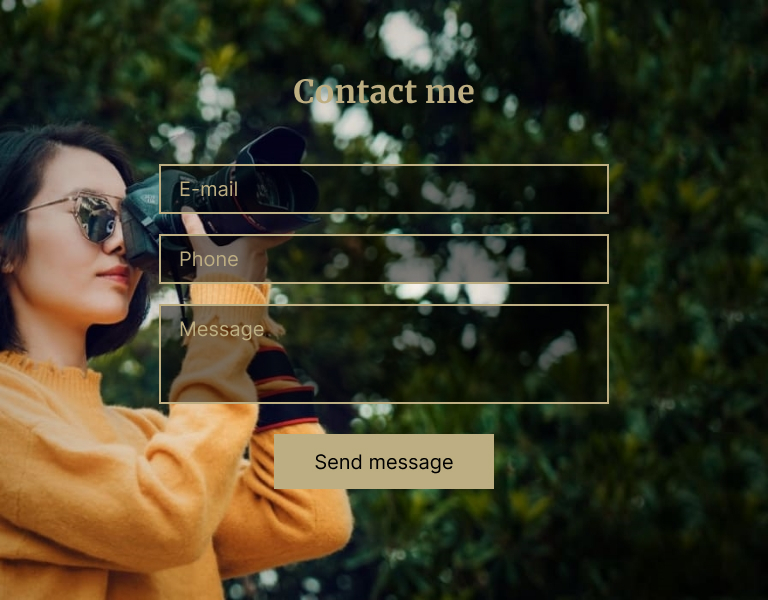
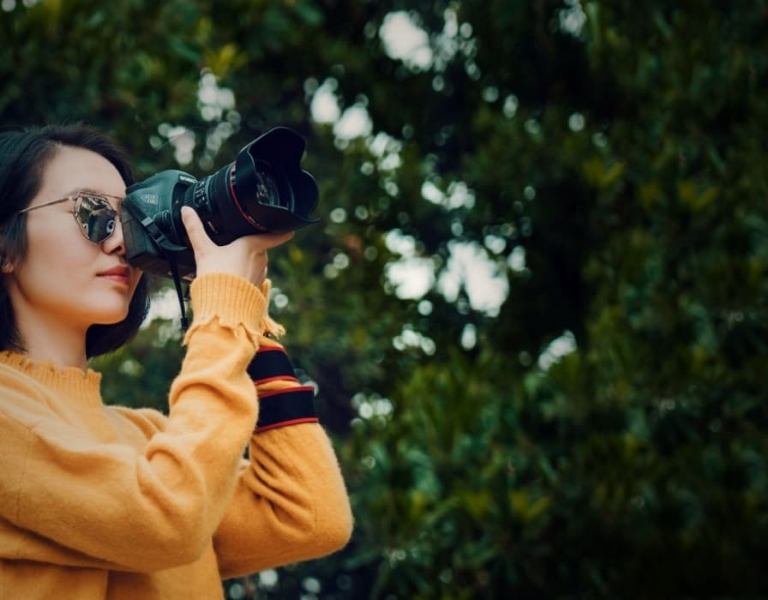
fix: add new bg image

diff --git a/portfolio/index.js b/portfolio/index.js
@@ -18,4 +18,3 @@ function closeMenu() {
 }
 
 navItems.forEach((elem) => elem.addEventListener('click', closeMenu));
-document.addEventListener('click', closeMenu);

diff --git a/portfolio/css/style.css b/portfolio/css/style.css
@@ -824,4 +824,3 @@ textarea {
     padding-left: 30px;
   }
 }
-
